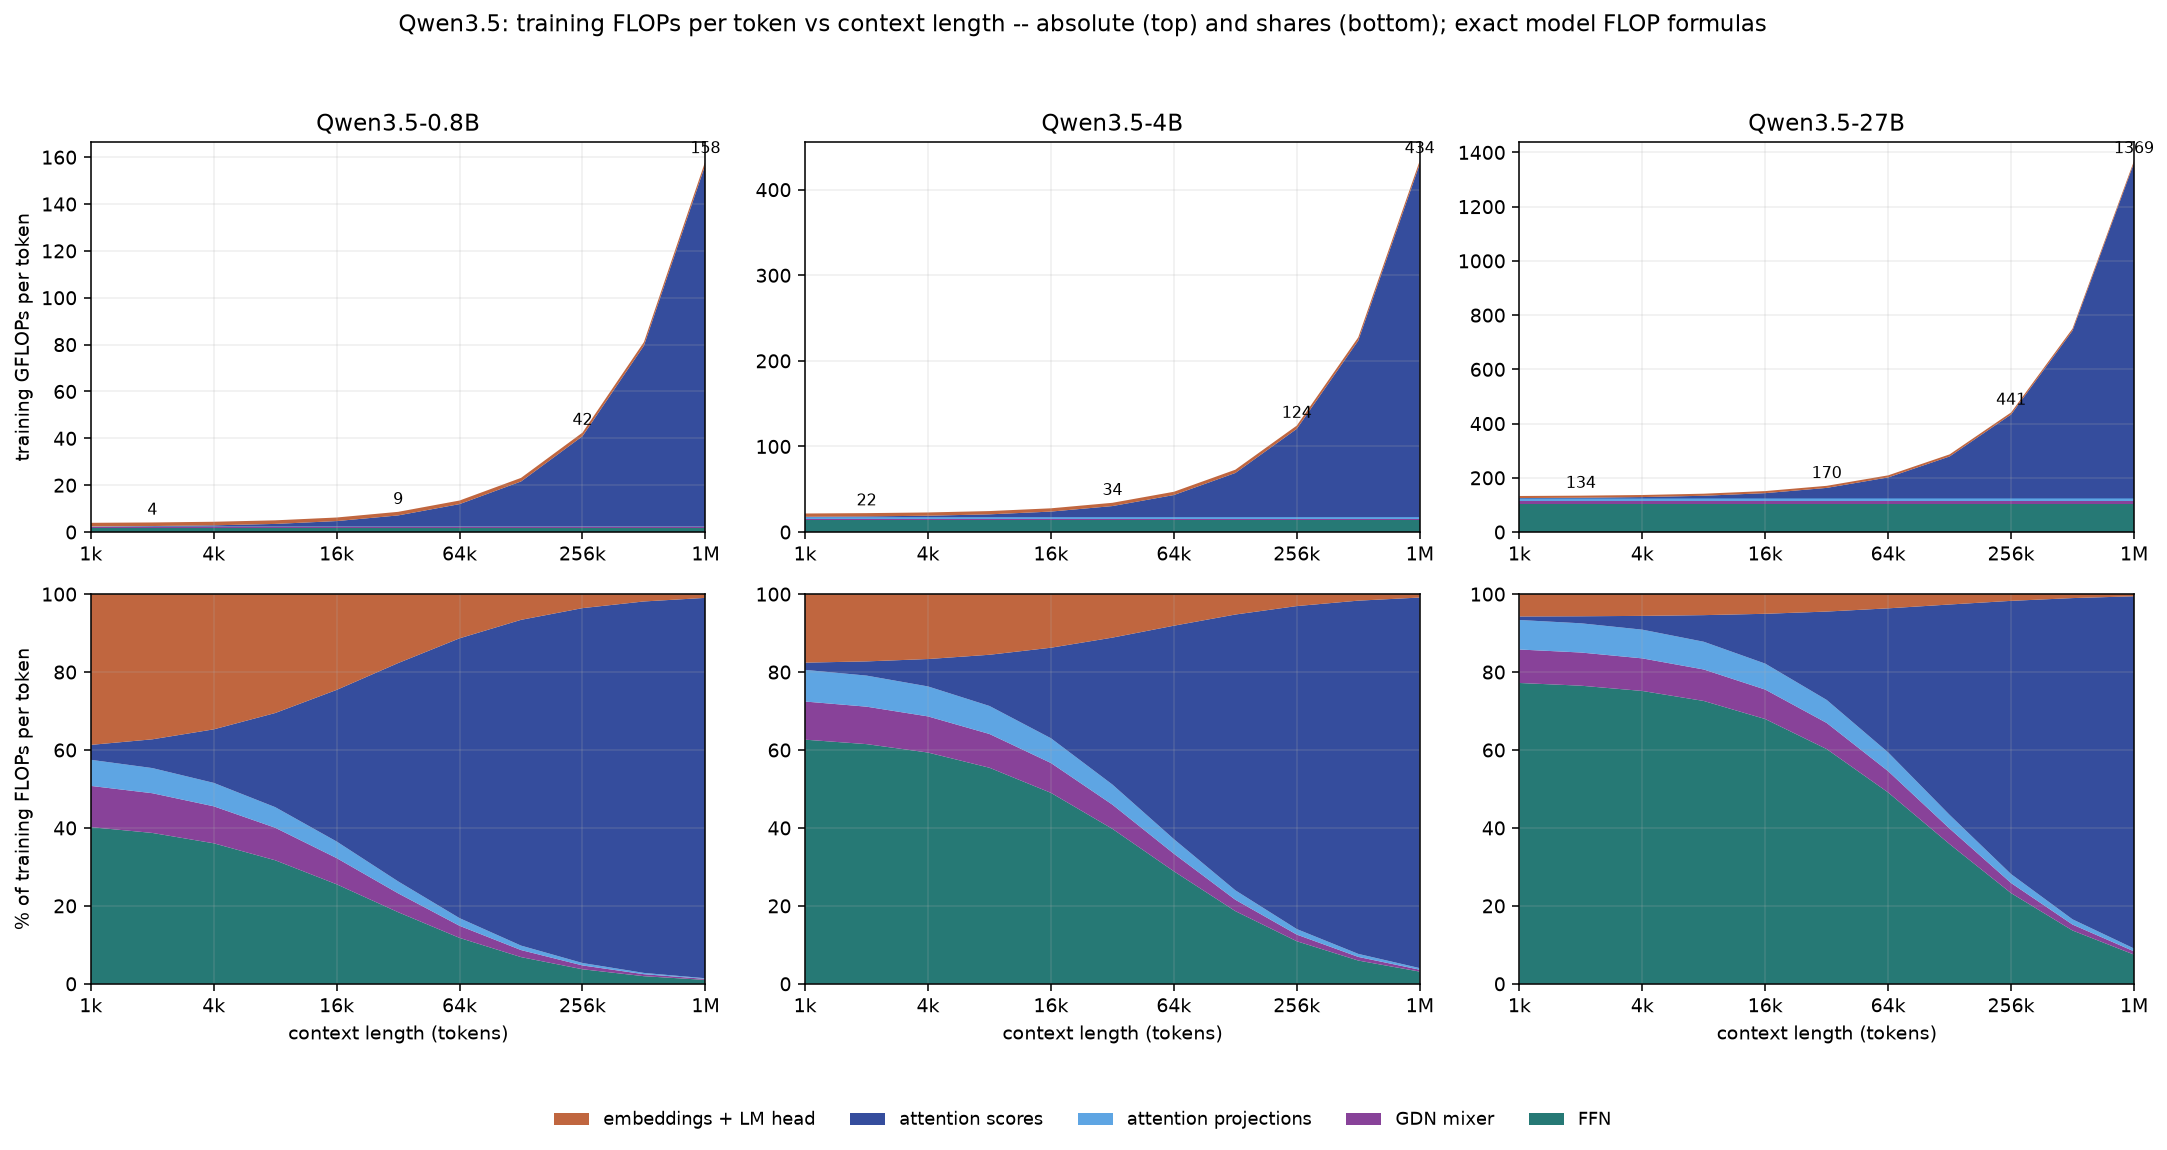
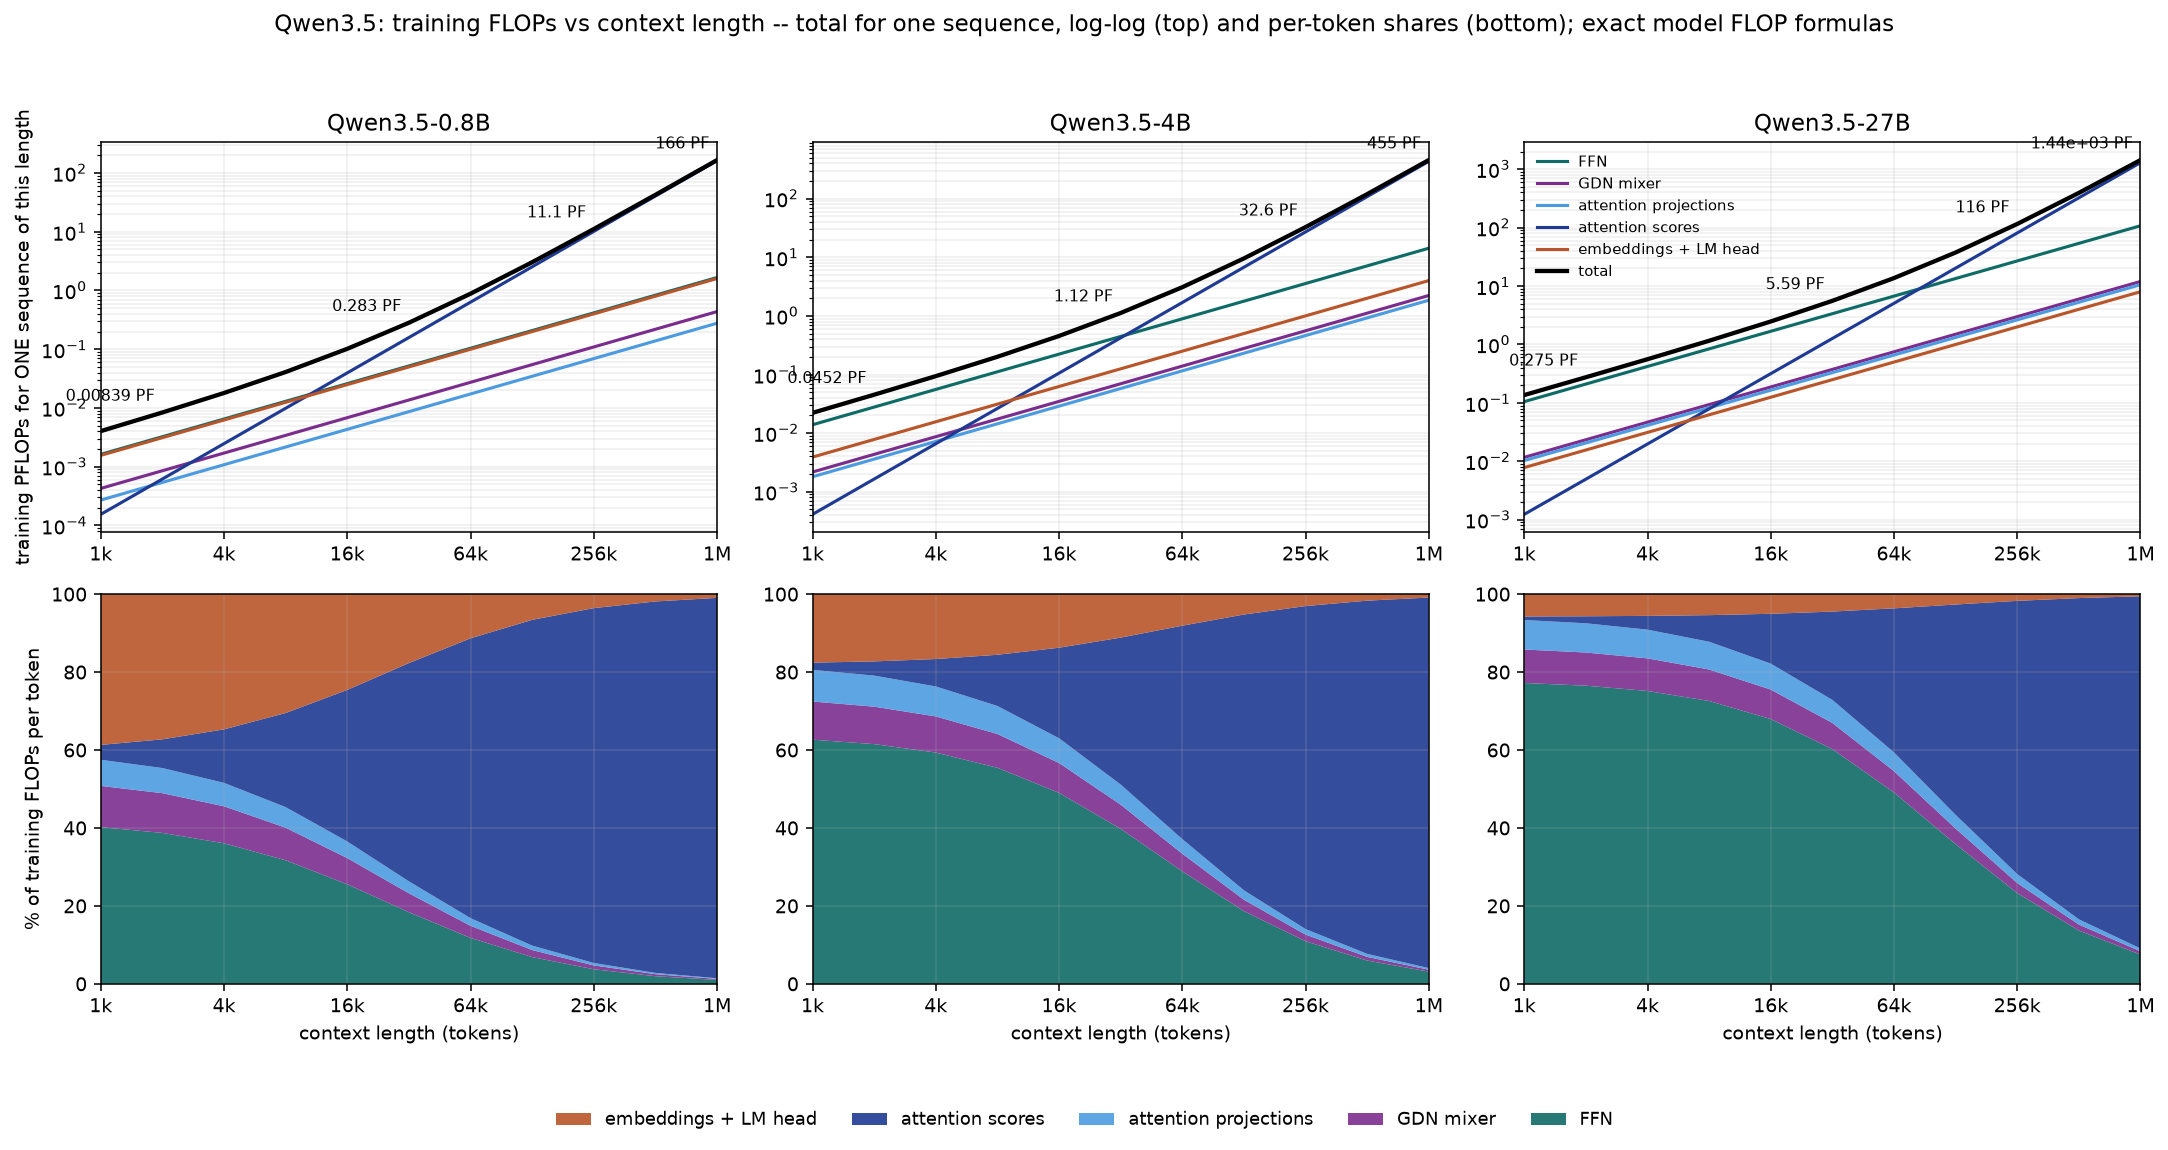
qwen35_shares: top row = total FLOPs per sequence (log-log)
Claude-Session: https://claude.ai/code/session_01WxnBY2wQDfD8t5auN8J4K1

diff --git a/debug/flop_scaling/qwen35_shares.py b/debug/flop_scaling/qwen35_shares.py
@@ -111,18 +111,24 @@ def main():
                 absol[k].append(s[k] * dense / 1e9)
             rows.append((name, L, s, dense))
         ax0 = axes[0][j]
-        ax0.stackplot(LENGTHS, [absol[k] for k in COLORS], colors=[COLORS[k] for k in COLORS], alpha=0.9)
-        ax0.set_xscale("log", base=2)
+        # TOTAL training FLOPs for one sequence of length L (= per-token x L), log-log so the growth
+        # rate reads off the slope: 1 for the length-independent parts, 2 for attention scores.
+        tot = [sum(absol[k][i] for k in COLORS) * L / 1e6 for i, L in enumerate(LENGTHS)]  # PFLOPs
+        for k in COLORS:
+            ax0.plot(LENGTHS, [absol[k][i] * L / 1e6 for i, L in enumerate(LENGTHS)], color=COLORS[k], lw=1.6, label=k)
+        ax0.plot(LENGTHS, tot, color="black", lw=2.2, label="total")
+        ax0.set_xscale("log", base=2); ax0.set_yscale("log")
         ax0.set_xlim(LENGTHS[0], LENGTHS[-1])
         ax0.set_xticks([2**k for k in range(10, 21, 2)]); ax0.set_xticklabels(["1k", "4k", "16k", "64k", "256k", "1M"])
         ax0.set_title(f"Qwen3.5-{name}", fontsize=12)
-        tot = [sum(absol[k][i] for k in COLORS) for i in range(len(LENGTHS))]
         for L, t in zip(LENGTHS, tot):
             if L in (2048, 32768, 262144, 1048576):
-                ax0.annotate(f"{t:.0f}", (L, t), textcoords="offset points", xytext=(0, 4), ha="center", fontsize=8)
+                ax0.annotate(f"{t:.3g} PF", (L, t), textcoords="offset points", xytext=(-4, 6), ha="right", fontsize=8)
         if j == 0:
-            ax0.set_ylabel("training GFLOPs per token")
-        ax0.grid(True, alpha=0.2)
+            ax0.set_ylabel("training PFLOPs for ONE sequence of this length")
+        ax0.grid(True, which="both", alpha=0.2)
+        if j == len(SCALES) - 1:
+            ax0.legend(fontsize=7.5, frameon=False, loc="upper left")
         ax = axes[1][j]
         ax.stackplot(LENGTHS, [shares[k] for k in COLORS], labels=list(COLORS), colors=[COLORS[k] for k in COLORS], alpha=0.9)
         ax.set_xscale("log", base=2)
@@ -168,7 +174,7 @@ def main():
         ax3.grid(True, alpha=0.2)
     handles, labels = axes[1][0].get_legend_handles_labels()
     fig.legend(handles[::-1], labels[::-1], loc="lower center", ncol=5, fontsize=9, frameon=False, bbox_to_anchor=(0.5, -0.03))
-    fig.suptitle("Qwen3.5: training FLOPs per token vs context length -- absolute (top) and shares (bottom); exact model FLOP formulas", fontsize=12)
+    fig.suptitle("Qwen3.5: training FLOPs vs context length -- total for one sequence, log-log (top) and per-token shares (bottom); exact model FLOP formulas", fontsize=12)
     fig.tight_layout(rect=(0, 0.04, 1, 0.95))
     p = f"{VIZ}/qwen35_flop_shares.png"; fig.savefig(p, dpi=140, bbox_inches="tight"); print("wrote", p)
     h2, l2 = axes2[0][0].get_legend_handles_labels()
